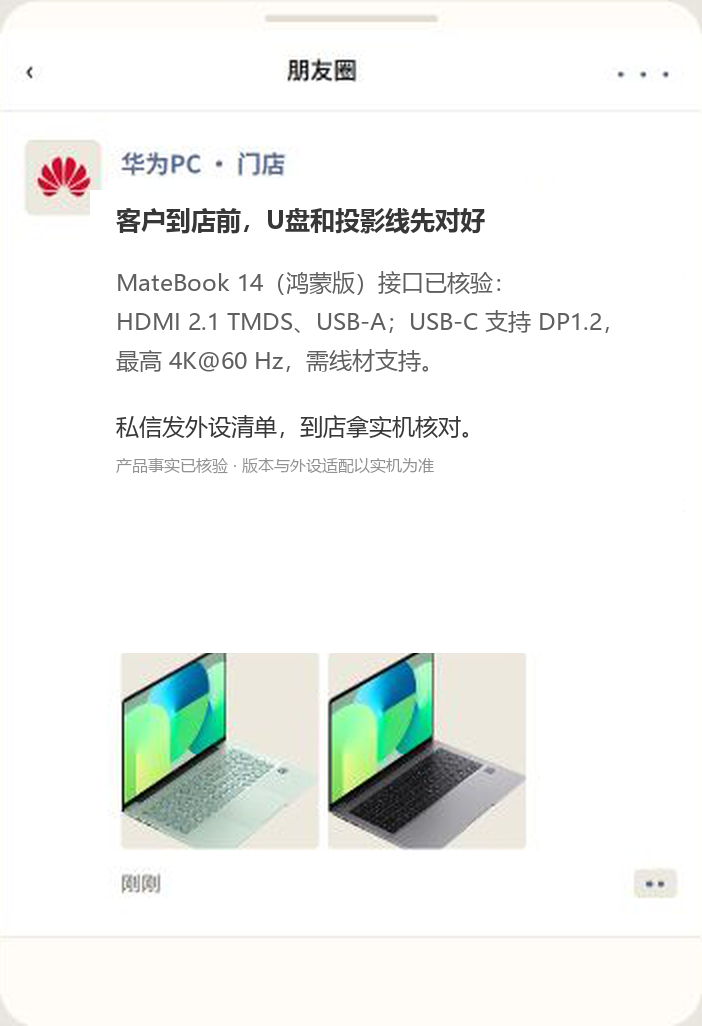
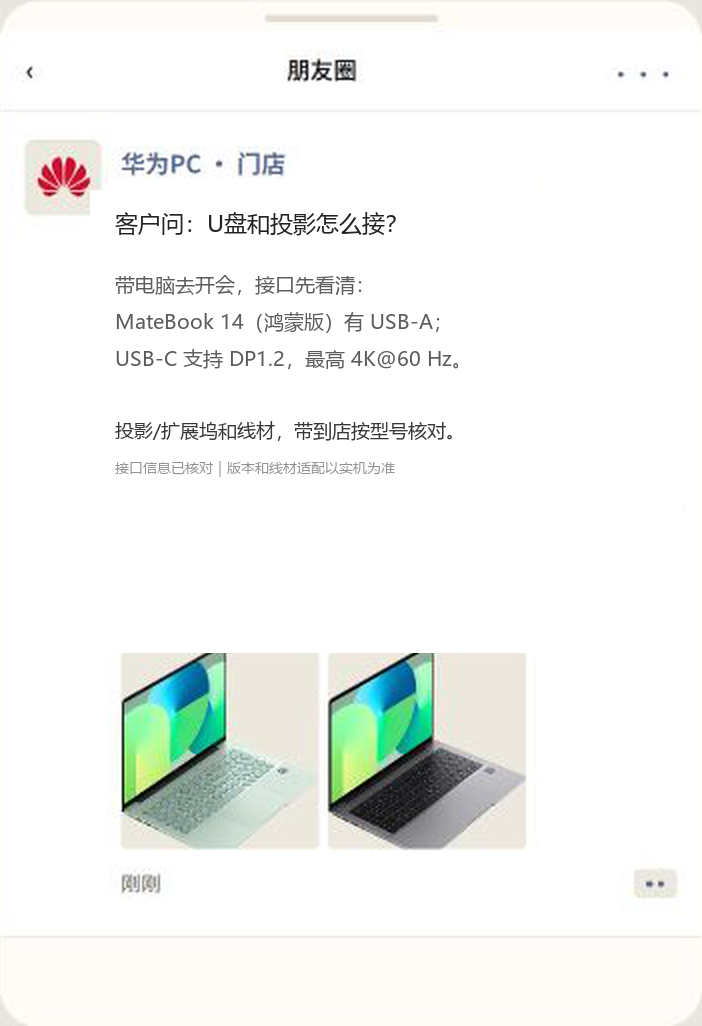
Polish verified moments showcase copy

Changed region(s): [[0.1496, 0.1871, 0.8077, 0.3743], [0.1496, 0.4055, 0.6581, 0.4678], [0.8376, 0.3119, 0.8675, 0.3431]]

diff --git a/src/mvp/web/showcase-functions.html b/src/mvp/web/showcase-functions.html
@@ -7,7 +7,7 @@
   <meta name="description" content="华章有据决赛线下展示稿：十二个业务功能、可解释生产线与可交付闭环。">
   <link rel="icon" type="image/svg+xml" href="/static/brand/app-icon.svg">
   <link rel="stylesheet" href="/static/fonts.css?v=1.2.0">
-  <link rel="stylesheet" href="/static/showcase-deck.css?v=1.0.5">
+  <link rel="stylesheet" href="/static/showcase-deck.css?v=1.0.6">
 </head>
 <body class="deck-page">
   <header class="deck-header">
@@ -24,23 +24,23 @@
     </section>
     <section class="deck-slide" data-label="PROBLEM" data-title="门店不是不会写，是没有时间把内容做对"><div class="slide-index"><span>02</span><i></i><small>18</small></div><div class="problem-layout"><div class="slide-copy"><p class="eyebrow">问题 / 01</p><h2>门店不是不会写，<br><em>是没有时间把内容做对。</em></h2><p>店长面对的是一串同时发生的任务：今天推谁、讲哪个场景、产品参数能不能写、四个平台该怎么改。只给一个空白输入框，最后得到的通常是“像营销”的模板。</p><div class="pain-list"><div><b>01</b><span>人群和场景没有被说清楚</span></div><div><b>02</b><span>同一段话被复制到四个平台</span></div><div><b>03</b><span>产品事实和图片出处没人负责</span></div></div></div><div class="problem-visual"><div class="before-box"><span>原来的工作</span><strong>搜索资料 → 凭经验写 → 自己检查 → 手动改四遍</strong><small>时间被耗在重复劳动，风险却留在最后。</small></div><div class="arrow-mark">→</div><div class="after-box"><span>华章有据</span><strong>经营参数 → Agent 接力 → 事实核验 → 平台交付</strong><small>让每一步都留下可以解释的证据。</small></div></div></div><p class="speaker-note"><span>现场说</span>“所以我们没有从‘模型能写多长’开始，而是从店长每天真正要完成的工作开始。”</p></section>
     <section class="deck-slide slide-platforms function-map-slide" data-label="MAP" data-title="十二个功能，围绕一条门店经营链"><div class="slide-index"><span>03</span><i></i><small>18</small></div><div class="slide-topline"><div><p class="eyebrow">功能地图 / 01</p><h2>十二个功能，<br><em>围绕一条门店经营链。</em></h2></div><p>从真实输入开始，到内容交付和门店复盘结束。下面每一页只讲一个能力：它替业务做什么，留下什么结果。</p></div><div class="function-map-overview"><div class="function-map-band"><div class="function-map-band-intro"><span>01</span><b>真实输入</b><small>让系统知道这家店、这群人、这个场景到底要完成什么动作。</small></div><div class="function-map-cards"><button class="function-map-card" data-go="4"><span>01</span><img src="/static/showcase-assets/brief-filled.png?v=20261025-0730" alt="结构化创作简报"><strong>结构化创作简报</strong><small>从一句需求到经营参数</small></button><button class="function-map-card" data-go="5"><span>02</span><img src="/static/showcase-assets/ask-1.png?v=20261025-0730" alt="智能追问"><strong>智能追问</strong><small>只补真正影响结果的缺口</small></button><button class="function-map-card" data-go="6"><span>03</span><img src="/static/showcase-assets/weight-mix.png" alt="需求意图与 Weight Mix"><strong>需求意图与 Weight Mix</strong><small>规则与自然语言共同决策</small></button><button class="function-map-card" data-go="7"><span>04</span><img src="/static/showcase-assets/scene-analysis.png" alt="产品与场景上下文"><strong>产品 / 场景上下文</strong><small>知识库、机型和历史共同进场</small></button></div></div><div class="function-map-band"><div class="function-map-band-intro"><span>02</span><b>可解释生产线</b><small>让模型、规则和人工各自负责自己擅长的部分。</small></div><div class="function-map-cards"><button class="function-map-card" data-go="8"><span>05</span><img src="/static/showcase-assets/work.png" alt="Agent 实时编排"><strong>Agent 实时编排</strong><small>阶段状态、耗时、资料路径可见</small></button><button class="function-map-card" data-go="9"><span>06</span><img src="/static/gallery/result.jpg" alt="视觉海报与外观保真"><strong>视觉海报与外观保真</strong><small>场景可以创作，产品要保持真实</small></button><button class="function-map-card" data-go="10"><span>07</span><img src="/static/showcase-assets/evidence.png" alt="事实核验与 Fact ID"><strong>事实核验与 Fact ID</strong><small>主张、图片、来源一一回链</small></button><button class="function-map-card is-featured" data-go="11"><span>08</span><img src="/static/showcase-assets/evidence-judge.png" alt="双轨审核与风险分流"><strong>双轨审核与风险分流</strong><small>自动修订与人工裁定各走各的路径</small></button></div></div><div class="function-map-band"><div class="function-map-band-intro"><span>03</span><b>可交付闭环</b><small>把内容交到平台和门店，继续沉淀下一次工作的上下文。</small></div><div class="function-map-cards"><button class="function-map-card" data-go="12"><span>09</span><img src="/static/gallery/showcase-moments-preview.png?v=20261025-0800" alt="多平台原生预览"><strong>多平台原生预览</strong><small>小红书、公众号、朋友圈、海报分别组织</small></button><button class="function-map-card" data-go="13"><span>10</span><img src="/static/showcase-assets/export-offline.png" alt="快捷打磨与离线导出"><strong>快捷打磨与离线导出</strong><small>定向修订、复制正文、导出 HTML</small></button><button class="function-map-card" data-go="14"><span>11</span><img src="/static/showcase-assets/store-final.png" alt="我的门店与私域触点"><strong>我的门店与私域触点</strong><small>企微、社群、到店邀约形成经营看板</small></button><button class="function-map-card" data-go="15"><span>12</span><img src="/static/showcase-assets/judge-final.png" alt="历史稿件与复盘"><strong>历史稿件与复盘</strong><small>跨稿避重、审核状态、后续动作可追踪</small></button></div></div></div><p class="speaker-note"><span>现场说</span>“这一段开始，我不再按平台讲案例，而是按业务能力讲：店长每遇到一个问题，系统就有一个明确的功能接住它。”</p></section>
-    <section class="deck-slide case-slide feature-slide" data-label="INPUT / 01" data-title="结构化创作简报：把一句需求变成经营参数"><div class="slide-index"><span>04</span><i></i><small>18</small></div><div class="case-layout"><div class="case-copy"><p class="eyebrow">功能 / 01 · 真实输入</p><h2>别让店长写提示词，<br><em>让他把经营要求填完整。</em></h2><p>业务场景：店长要为“经常出差的职场新人”准备一条到店试机内容。系统把人群、场景、平台、产品、目标和私域触点收成一张可修改、可复用的创作简报。</p><div class="case-points"><div><b>业务问题</b><span>只说“帮我写一篇”，系统不知道写给谁、发到哪、希望用户下一步做什么。</span></div><div><b>系统动作</b><span>把自然语言和结构化选项合并成经营参数，后续每个 Agent 都读取同一份 brief。</span></div><div><b>业务结果</b><span>店长从“试着问模型”变成“布置一次任务”，换人也能复用同一套输入。</span></div></div><div class="case-tags"><span>人群</span><span>场景</span><span>平台</span><span>到店目标</span></div></div><figure class="case-media"><img src="/static/showcase-assets/brief-filled.png?v=20261025-0730" alt="结构化创作简报界面"><figcaption><b>业务证据</b> 一张简报把“写什么”变成“为谁、在什么场景、要发生什么动作”。</figcaption></figure></div><p class="speaker-note"><span>现场说</span>“对门店来说，这不是多填几项表单，而是把原来藏在店长脑子里的经营判断变成团队可以复用的任务。”</p></section>
-    <section class="deck-slide case-slide feature-slide" data-label="INPUT / 02" data-title="智能追问：只补真正影响结果的缺口"><div class="slide-index"><span>05</span><i></i><small>18</small></div><div class="case-layout case-layout-reverse"><div class="case-copy"><p class="eyebrow">功能 / 02 · 真实输入</p><h2>需求不完整时，<br><em>先问一个最值得确认的问题。</em></h2><p>业务场景：销售只输入“给老客推一台轻薄本”，但没有说明是换机、送礼还是出差办公。系统识别出真正会改变内容方向的缺口，只追问这一点。</p><div class="case-points"><div><b>业务问题</b><span>空白输入框会逼店长反复试错，问题问得太多又会让一线员工放弃。</span></div><div><b>系统动作</b><span>按结果影响度排序追问，支持一键选择或补充，不把低价值细节提前拦住。</span></div><div><b>业务结果</b><span>减少返工和来回沟通，让“不会描述需求”的员工也能把任务启动起来。</span></div></div><div class="case-tags"><span>缺口识别</span><span>最小追问</span><span>少返工</span></div></div><figure class="case-media"><img src="/static/showcase-assets/ask-1.png?v=20261025-0730" alt="智能追问界面"><figcaption><b>业务证据</b> 追问只围绕会改变结果的选择，让一线输入保持轻量。</figcaption></figure></div><p class="speaker-note"><span>现场说</span>“系统不是把复杂性推给店长，而是把复杂性留在系统里，只把一个真正影响结果的问题问出来。”</p></section>
-    <section class="deck-slide case-slide feature-slide" data-label="INPUT / 03" data-title="需求意图与 Weight Mix：把多个目标排出优先级"><div class="slide-index"><span>06</span><i></i><small>18</small></div><div class="case-layout"><div class="case-copy"><p class="eyebrow">功能 / 03 · 真实输入</p><h2>门店目标不止一个，<br><em>先把优先级说清楚。</em></h2><p>业务场景：同一条内容既想让用户感到轻薄，又想强调接口和到店试机。系统把稳定的场景规则与店长的自然语言诉求混合，形成可回看的权重。</p><div class="case-points"><div><b>业务问题</b><span>“都要讲”最后往往变成什么都讲不清，模型也无法判断哪一个卖点应该占主位。</span></div><div><b>系统动作</b><span>用 Weight Mix 把平台规则、场景任务和临时诉求组合成排序依据，保留每个权重来源。</span></div><div><b>业务结果</b><span>正文、标题和画面有同一条主线，店长能解释为什么这次先讲轻薄、下一次再讲接口。</span></div></div><div class="case-tags"><span>目标排序</span><span>规则 + 语义</span><span>可解释决策</span></div></div><figure class="case-media"><img src="/static/showcase-assets/weight-mix.png" alt="需求意图与 Weight Mix 界面"><figcaption><b>业务证据</b> 结构化规则提供骨架，自然语言补足真实诉求，最后形成可回看的优先级。</figcaption></figure></div><p class="speaker-note"><span>现场说</span>“这一页要讲的是经营取舍：系统不是替店长决定卖点，而是把‘为什么先讲这个’留下来。”</p></section>
-    <section class="deck-slide case-slide feature-slide" data-label="INPUT / 04" data-title="产品与场景上下文：让门店资料真正进入创作"><div class="slide-index"><span>07</span><i></i><small>18</small></div><div class="case-layout case-layout-reverse"><div class="case-copy"><p class="eyebrow">功能 / 04 · 真实输入</p><h2>写之前先把资料放进来，<br><em>让内容像这家店，而不是像模板。</em></h2><p>业务场景：同一台 MateBook 在不同门店面对不同客群。系统把知识库、机型资料、登记图片和历史稿件放进当前任务，未确认内容保持待确认。</p><div class="case-points"><div><b>业务问题</b><span>没有门店上下文，内容只能泛泛讲参数，也无法知道哪些话已经写过。</span></div><div><b>系统动作</b><span>按产品、场景和门店历史组织资料，区分已确认、待确认和仅供参考的内容。</span></div><div><b>业务结果</b><span>同一套系统能写出“这家店现在要卖什么”，也能在下次任务里复用已有上下文。</span></div></div><div class="case-tags"><span>知识库</span><span>门店资料</span><span>历史沉淀</span></div></div><figure class="case-media"><img src="/static/showcase-assets/scene-analysis.png" alt="产品与场景上下文界面"><figcaption><b>业务证据</b> 产品事实、场景图片和历史稿件共同进入当前任务，避免凭空补全。</figcaption></figure></div><p class="speaker-note"><span>现场说</span>“对门店来说，真正有价值的不是一篇通用好文，而是一篇知道这家店今天要卖什么的内容。”</p></section>
-    <section class="deck-slide case-slide feature-slide" data-label="PIPELINE / 05" data-title="Agent 实时编排：让一条内容生产线可见"><div class="slide-index"><span>08</span><i></i><small>18</small></div><div class="case-layout"><div class="case-copy"><p class="eyebrow">功能 / 05 · 可解释生产线</p><h2>不是一个模型写到底，<br><em>而是一条看得见的生产线。</em></h2><p>业务场景：门店要同时准备小红书、朋友圈和海报。理解需求、备料、选角度、写作、规则检查、独立评审和定向修订分别留下状态和耗时。</p><div class="case-points"><div><b>业务问题</b><span>生成失败时没人知道卡在哪；等待时间、资料路径和修改原因也无法解释。</span></div><div><b>系统动作</b><span>把任务拆成有边界的 Agent 阶段，每一段都展示输入、输出、状态和可回查记录。</span></div><div><b>业务结果</b><span>店长知道结果何时可用，研发知道问题在哪一段，评审能看到系统怎样从需求走到成稿。</span></div></div><div class="case-tags"><span>阶段状态</span><span>耗时可见</span><span>资料路径</span></div></div><figure class="case-media"><img src="/static/showcase-assets/work.png" alt="Agent 实时编排界面"><figcaption><b>业务证据</b> 每个阶段都有自己的职责，过程可以解释，失败可以定位。</figcaption></figure></div><p class="speaker-note"><span>现场说</span>“这项功能解决的是组织问题：不是让一个模型更会说，而是让一条内容生产线知道每一步该由谁负责。”</p></section>
-    <section class="deck-slide case-slide feature-slide" data-label="PIPELINE / 06" data-title="视觉海报与产品外观保真：创意和事实同时成立"><div class="slide-index"><span>09</span><i></i><small>18</small></div><div class="case-layout case-layout-reverse"><div class="case-copy"><p class="eyebrow">功能 / 06 · 可解释生产线</p><h2>画面可以有想象，<br><em>产品不能被重新画错。</em></h2><p>业务场景：围绕职场新人通勤和出差，系统生成杂志、微缩场景、生活方式等不同海报方向，同时锁定真实机身、型号与已确认卖点。</p><div class="case-points"><div><b>业务问题</b><span>只生成一张图没有选择空间，完全放开创作又容易把产品外观和文字做错。</span></div><div><b>系统动作</b><span>先扩展多种视觉方向，再把产品登记图、型号和事实约束带入候选，最后由人挑选。</span></div><div><b>业务结果</b><span>门店可以比较“哪种风格更适合这群人”，同时保留发布前的人工验收。</span></div></div><div class="case-tags"><span>多风格候选</span><span>外观保真</span><span>人工选择</span></div></div><figure class="case-media"><img src="/static/gallery/result.jpg" alt="视觉海报与产品外观保真"><figcaption><b>业务证据</b> 同一条到店理由生成多种表达，创意扩展和产品事实各守一条边界。</figcaption></figure></div><p class="speaker-note"><span>现场说</span>“海报生成不是让模型押一次方向，而是把选择空间摆出来，再把产品事实守住。”</p></section>
-    <section class="deck-slide case-slide feature-slide" data-label="PIPELINE / 07" data-title="事实核验与 Fact ID：每条主张都能回到来源"><div class="slide-index"><span>10</span><i></i><small>18</small></div><div class="case-layout"><div class="case-copy"><p class="eyebrow">功能 / 07 · 可解释生产线</p><h2>发布前不靠感觉，<br><em>把每条主张拉回原文。</em></h2><p>业务场景：内容里出现重量、屏幕比例、接口和适用条件。系统把主张、配图、型号和知识库来源逐项关联，给审核者一张可以快速核对的清单。</p><div class="case-points"><div><b>业务问题</b><span>营销文案最怕“看起来对”，但发布时没人能快速确认数字和图片到底来自哪里。</span></div><div><b>系统动作</b><span>抽取正文主张并生成 Fact ID，关联证据、图片引用和适用边界，缺证据的内容进入待确认。</span></div><div><b>业务结果</b><span>审核从通读整篇变成逐项确认，店长能知道哪句话可以直接发、哪句话必须先问清。</span></div></div><div class="case-tags"><span>主张清单</span><span>Fact ID</span><span>来源回链</span></div></div><figure class="case-media"><img src="/static/showcase-assets/evidence.png" alt="事实核验与 Fact ID 界面"><figcaption><b>业务证据</b> 数字、型号、接口和图片分别有来源，审核动作可追溯。</figcaption></figure></div><p class="speaker-note"><span>现场说</span>“有据不是让人相信模型，而是让审核者在最短时间内知道这句话为什么可以发。”</p></section>
-    <section class="deck-slide case-slide feature-slide" data-label="PIPELINE / 08" data-title="双轨审核与风险分流：把能自动修的和必须问人的分开"><div class="slide-index"><span>11</span><i></i><small>18</small></div><div class="case-layout case-layout-reverse"><div class="case-copy"><p class="eyebrow">功能 / 08 · 可解释生产线</p><h2>审核不是一刀切，<br><em>不同风险走不同路径。</em></h2><p>业务场景：一篇稿件同时出现格式问题、事实冲突和未确认兼容性。系统把可自动修订的问题回流，把重要未决保留给人工裁定。</p><div class="case-points"><div><b>业务问题</b><span>把所有问题都交给人会拖慢发布，把所有问题都交给模型又会放大风险。</span></div><div><b>系统动作</b><span>确定性规则、独立评审和人工确认分轨处理，重复意见合并成一个清晰的裁定项。</span></div><div><b>业务结果</b><span>日常稿件更快通过，关键边界不被自动“润色”掉，门店知道自己还需要决定什么。</span></div></div><div class="case-tags"><span>自动修订</span><span>风险分流</span><span>人工裁定</span></div></div><figure class="case-media"><img src="/static/showcase-assets/evidence-judge.png" alt="双轨审核与风险分流界面"><figcaption><b>业务证据</b> 同一条问题只保留一个处理入口，自动能做的先做，重要未决交还给人。</figcaption></figure></div><p class="speaker-note"><span>现场说</span>“我们不追求把所有问题都自动处理，而是让人把时间用在真正需要判断的地方。”</p></section>
-    <section class="deck-slide case-slide feature-slide" data-label="DELIVERY / 09" data-title="多平台原生预览：同一份事实，按渠道重新组织"><div class="slide-index"><span>12</span><i></i><small>18</small></div><div class="case-layout"><div class="case-copy"><p class="eyebrow">功能 / 09 · 可交付闭环</p><h2>交付的不是一段字，<br><em>而是四个平台各自能用的内容。</em></h2><p>业务场景：同一台产品要同时服务小红书种草、公众号解释、朋友圈答疑和门店海报。系统保留同一份事实，按不同渠道的阅读节奏重组标题、正文、图片和行动。</p><div class="case-points"><div><b>业务问题</b><span>复制同一段话到四个平台，既没有平台网感，也没有清晰的下一步动作。</span></div><div><b>系统动作</b><span>按平台规则分别生成原生结构，支持电脑端与手机端预览，保留平台边界和内容长度。</span></div><div><b>业务结果</b><span>店长拿到的是可以直接检查、复制和发布的内容包，而不是还要自己改四遍的草稿。</span></div></div><div class="case-tags"><span>小红书</span><span>公众号</span><span>朋友圈</span><span>门店海报</span></div></div><figure class="case-media"><img src="/static/gallery/showcase-moments-preview.png?v=20261025-0800" alt="朋友圈手机预览：接口核验与到店邀约"><figcaption><b>工作台生成结果</b> 朋友圈短卡片：产品接口事实已核验，版本与外设适配保留到店实机确认。</figcaption></figure></div><p class="speaker-note"><span>现场说</span>“平台适配不是换标题，而是换用户动作：参与、理解、转发和到店，各自都有自己的内容结构。”</p></section>
-    <section class="deck-slide case-slide feature-slide" data-label="DELIVERY / 10" data-title="快捷打磨与离线导出：改一个问题，不必推倒重来"><div class="slide-index"><span>13</span><i></i><small>18</small></div><div class="case-layout case-layout-reverse"><div class="case-copy"><p class="eyebrow">功能 / 10 · 可交付闭环</p><h2>修改要有指向，<br><em>不要每次都从头生成。</em></h2><p>业务场景：店长只想把标题换得更口语，或者把一条未经确认的接口描述删掉。系统支持对具体问题定向打磨，并将最终结果复制或导出离线 HTML。</p><div class="case-points"><div><b>业务问题</b><span>每次小改都重新生成，容易把已经确认的事实和版式一起改坏。</span></div><div><b>系统动作</b><span>把评审意见映射到局部修订，保留修改前后记录，再提供正文复制和离线交付。</span></div><div><b>业务结果</b><span>店长可以快速完成最后一公里的人工微调，交付给同事或门店时不依赖在线环境。</span></div></div><div class="case-tags"><span>定向修订</span><span>修改留痕</span><span>离线 HTML</span></div></div><figure class="case-media"><img src="/static/showcase-assets/export-offline.png" alt="快捷打磨与离线导出界面"><figcaption><b>业务证据</b> 只修当前问题，保留已确认结果，最终可以复制或带走。</figcaption></figure></div><p class="speaker-note"><span>现场说</span>“真正适合门店的系统，最后一定允许人把一句话改成自己愿意发的样子。”</p></section>
-    <section class="deck-slide case-slide feature-slide" data-label="DELIVERY / 11" data-title="我的门店与私域触点：让发布之后还有下一步"><div class="slide-index"><span>14</span><i></i><small>18</small></div><div class="case-layout"><div class="case-copy"><p class="eyebrow">功能 / 11 · 可交付闭环</p><h2>内容发布之后，<br><em>回到门店继续经营。</em></h2><p>业务场景：一条朋友圈发出后，可能有人加企微、进社群、预约到店，也可能只留下一个待跟进的选购问题。系统把这些私域触点接回门店看板。</p><div class="case-points"><div><b>业务问题</b><span>内容发出就结束，谁看过、谁要跟进、哪条内容带来动作都散落在聊天记录里。</span></div><div><b>系统动作</b><span>把企微、朋友圈、社群和到店邀约整理成可继续处理的触点，关联内容和任务。</span></div><div><b>业务结果</b><span>门店不只得到一篇稿件，还能知道下一步联系谁、补什么资料、复用哪条经验。</span></div></div><div class="case-tags"><span>企微触点</span><span>社群跟进</span><span>到店邀约</span></div></div><figure class="case-media"><img src="/static/showcase-assets/store-final.png" alt="我的门店与私域触点看板"><figcaption><b>业务证据</b> 内容、客户触点和到店动作进入同一个门店经营视图。</figcaption></figure></div><p class="speaker-note"><span>现场说</span>“生态营销的终点不是发布按钮，而是店员知道下一步该跟进谁。”</p></section>
-    <section class="deck-slide case-slide feature-slide" data-label="DELIVERY / 12" data-title="历史稿件与复盘：让每次生成都成为下一次的上下文"><div class="slide-index"><span>15</span><i></i><small>18</small></div><div class="case-layout case-layout-reverse"><div class="case-copy"><p class="eyebrow">功能 / 12 · 可交付闭环</p><h2>每次生成都留下来，<br><em>下一次就不用从零开始。</em></h2><p>业务场景：门店下周还要为同一机型做另一条内容。系统保留历史稿件、审核状态和后续动作，用于字面避重、经验复用和经营复盘。</p><div class="case-points"><div><b>业务问题</b><span>好的内容和审核经验只存在某个人的聊天框里，换人或换场景就重新摸索。</span></div><div><b>系统动作</b><span>按门店、产品、平台和时间沉淀稿件与状态，支持跨稿比较、避重和回看修改原因。</span></div><div><b>业务结果</b><span>内容资产会越用越厚，店长能知道哪些表达已经试过、哪些问题反复出现、下次从哪里开始。</span></div></div><div class="case-tags"><span>历史沉淀</span><span>跨稿避重</span><span>经营复盘</span></div></div><figure class="case-media"><img src="/static/showcase-assets/judge-final.png" alt="历史稿件与复盘界面"><figcaption><b>业务证据</b> 稿件、审核状态和后续动作持续沉淀，成为下一次任务的上下文。</figcaption></figure></div><p class="speaker-note"><span>现场说</span>“做到这里，系统就不只是生成器，而是门店内容经验的记忆和复盘入口。”</p></section>
+    <section class="deck-slide case-slide feature-slide" data-label="INPUT / 01" data-title="结构化创作简报：把一句需求变成经营参数"><div class="slide-index"><span>04</span><i></i><small>18</small></div><div class="case-layout"><div class="case-copy"><p class="eyebrow">功能 / 01 · 真实输入</p><h2>结构化创作简报<br><em>把一句需求变成可执行的经营参数。</em></h2><p>把人群、场景、平台和到店目标收成一张可复用的创作简报。</p><div class="case-points"><div><b>业务问题</b><span>只说“帮我写一篇”，系统不知道写给谁、发到哪、希望用户下一步做什么。</span></div><div><b>系统动作</b><span>把自然语言和结构化选项合并成经营参数，后续每个 Agent 都读取同一份 brief。</span></div><div><b>业务结果</b><span>店长从“试着问模型”变成“布置一次任务”，换人也能复用同一套输入。</span></div></div><div class="case-tags"><span>人群</span><span>场景</span><span>平台</span><span>到店目标</span></div></div><figure class="case-media"><img src="/static/showcase-assets/brief-filled.png?v=20261025-0730" alt="结构化创作简报界面"><figcaption><b>业务证据</b> 一张简报把“写什么”变成“为谁、在什么场景、要发生什么动作”。</figcaption></figure></div><p class="speaker-note"><span>现场说</span>“对门店来说，这不是多填几项表单，而是把原来藏在店长脑子里的经营判断变成团队可以复用的任务。”</p></section>
+    <section class="deck-slide case-slide feature-slide" data-label="INPUT / 02" data-title="智能追问：只补真正影响结果的缺口"><div class="slide-index"><span>05</span><i></i><small>18</small></div><div class="case-layout case-layout-reverse"><div class="case-copy"><p class="eyebrow">功能 / 02 · 真实输入</p><h2>智能追问<br><em>只补真正影响结果的缺口。</em></h2><p>需求不完整时，只补一个真正会改变结果的关键选择。</p><div class="case-points"><div><b>业务问题</b><span>空白输入框会逼店长反复试错，问题问得太多又会让一线员工放弃。</span></div><div><b>系统动作</b><span>按结果影响度排序追问，支持一键选择或补充，不把低价值细节提前拦住。</span></div><div><b>业务结果</b><span>减少返工和来回沟通，让“不会描述需求”的员工也能把任务启动起来。</span></div></div><div class="case-tags"><span>缺口识别</span><span>最小追问</span><span>少返工</span></div></div><figure class="case-media"><img src="/static/showcase-assets/ask-1.png?v=20261025-0730" alt="智能追问界面"><figcaption><b>业务证据</b> 追问只围绕会改变结果的选择，让一线输入保持轻量。</figcaption></figure></div><p class="speaker-note"><span>现场说</span>“系统不是把复杂性推给店长，而是把复杂性留在系统里，只把一个真正影响结果的问题问出来。”</p></section>
+    <section class="deck-slide case-slide feature-slide" data-label="INPUT / 03" data-title="需求意图与 Weight Mix：把多个目标排出优先级"><div class="slide-index"><span>06</span><i></i><small>18</small></div><div class="case-layout"><div class="case-copy"><p class="eyebrow">功能 / 03 · 真实输入</p><h2>需求意图与 Weight Mix<br><em>把多个经营目标排出先后。</em></h2><p>把平台规则、场景任务和临时诉求合成可回看的优先级。</p><div class="case-points"><div><b>业务问题</b><span>“都要讲”最后往往变成什么都讲不清，模型也无法判断哪一个卖点应该占主位。</span></div><div><b>系统动作</b><span>用 Weight Mix 把平台规则、场景任务和临时诉求组合成排序依据，保留每个权重来源。</span></div><div><b>业务结果</b><span>正文、标题和画面有同一条主线，店长能解释为什么这次先讲轻薄、下一次再讲接口。</span></div></div><div class="case-tags"><span>目标排序</span><span>规则 + 语义</span><span>可解释决策</span></div></div><figure class="case-media"><img src="/static/showcase-assets/weight-mix.png" alt="需求意图与 Weight Mix 界面"><figcaption><b>业务证据</b> 结构化规则提供骨架，自然语言补足真实诉求，最后形成可回看的优先级。</figcaption></figure></div><p class="speaker-note"><span>现场说</span>“这一页要讲的是经营取舍：系统不是替店长决定卖点，而是把‘为什么先讲这个’留下来。”</p></section>
+    <section class="deck-slide case-slide feature-slide" data-label="INPUT / 04" data-title="产品与场景上下文：让门店资料真正进入创作"><div class="slide-index"><span>07</span><i></i><small>18</small></div><div class="case-layout case-layout-reverse"><div class="case-copy"><p class="eyebrow">功能 / 04 · 真实输入</p><h2>产品与场景上下文<br><em>让门店资料真正进入当前任务。</em></h2><p>让产品资料、场景图片和门店历史共同进入当前任务。</p><div class="case-points"><div><b>业务问题</b><span>没有门店上下文，内容只能泛泛讲参数，也无法知道哪些话已经写过。</span></div><div><b>系统动作</b><span>按产品、场景和门店历史组织资料，区分已确认、待确认和仅供参考的内容。</span></div><div><b>业务结果</b><span>同一套系统能写出“这家店现在要卖什么”，也能在下次任务里复用已有上下文。</span></div></div><div class="case-tags"><span>知识库</span><span>门店资料</span><span>历史沉淀</span></div></div><figure class="case-media"><img src="/static/showcase-assets/scene-analysis.png" alt="产品与场景上下文界面"><figcaption><b>业务证据</b> 产品事实、场景图片和历史稿件共同进入当前任务，避免凭空补全。</figcaption></figure></div><p class="speaker-note"><span>现场说</span>“对门店来说，真正有价值的不是一篇通用好文，而是一篇知道这家店今天要卖什么的内容。”</p></section>
+    <section class="deck-slide case-slide feature-slide" data-label="PIPELINE / 05" data-title="Agent 实时编排：让一条内容生产线可见"><div class="slide-index"><span>08</span><i></i><small>18</small></div><div class="case-layout"><div class="case-copy"><p class="eyebrow">功能 / 05 · 可解释生产线</p><h2>Agent 实时编排<br><em>让一条内容生产线可见、可解释。</em></h2><p>把理解、备料、创作、核验和修订拆成可追踪的 Agent 阶段。</p><div class="case-points"><div><b>业务问题</b><span>生成失败时没人知道卡在哪；等待时间、资料路径和修改原因也无法解释。</span></div><div><b>系统动作</b><span>把任务拆成有边界的 Agent 阶段，每一段都展示输入、输出、状态和可回查记录。</span></div><div><b>业务结果</b><span>店长知道结果何时可用，研发知道问题在哪一段，评审能看到系统怎样从需求走到成稿。</span></div></div><div class="case-tags"><span>阶段状态</span><span>耗时可见</span><span>资料路径</span></div></div><figure class="case-media"><img src="/static/showcase-assets/work.png" alt="Agent 实时编排界面"><figcaption><b>业务证据</b> 每个阶段都有自己的职责，过程可以解释，失败可以定位。</figcaption></figure></div><p class="speaker-note"><span>现场说</span>“这项功能解决的是组织问题：不是让一个模型更会说，而是让一条内容生产线知道每一步该由谁负责。”</p></section>
+    <section class="deck-slide case-slide feature-slide" data-label="PIPELINE / 06" data-title="视觉海报与产品外观保真：创意和事实同时成立"><div class="slide-index"><span>09</span><i></i><small>18</small></div><div class="case-layout case-layout-reverse"><div class="case-copy"><p class="eyebrow">功能 / 06 · 可解释生产线</p><h2>视觉海报与产品外观保真<br><em>场景可以有创意，产品必须保持真实。</em></h2><p>先扩展视觉表达，再用真实产品资料守住外观和型号。</p><div class="case-points"><div><b>业务问题</b><span>只生成一张图没有选择空间，完全放开创作又容易把产品外观和文字做错。</span></div><div><b>系统动作</b><span>先扩展多种视觉方向，再把产品登记图、型号和事实约束带入候选，最后由人挑选。</span></div><div><b>业务结果</b><span>门店可以比较“哪种风格更适合这群人”，同时保留发布前的人工验收。</span></div></div><div class="case-tags"><span>多风格候选</span><span>外观保真</span><span>人工选择</span></div></div><figure class="case-media"><img src="/static/gallery/result.jpg" alt="视觉海报与产品外观保真"><figcaption><b>业务证据</b> 同一条到店理由生成多种表达，创意扩展和产品事实各守一条边界。</figcaption></figure></div><p class="speaker-note"><span>现场说</span>“海报生成不是让模型押一次方向，而是把选择空间摆出来，再把产品事实守住。”</p></section>
+    <section class="deck-slide case-slide feature-slide" data-label="PIPELINE / 07" data-title="事实核验与 Fact ID：每条主张都能回到来源"><div class="slide-index"><span>10</span><i></i><small>18</small></div><div class="case-layout"><div class="case-copy"><p class="eyebrow">功能 / 07 · 可解释生产线</p><h2>事实核验与 Fact ID<br><em>让每条主张都能回到来源。</em></h2><p>把正文主张、配图和知识库来源逐项关联，方便发布前核对。</p><div class="case-points"><div><b>业务问题</b><span>营销文案最怕“看起来对”，但发布时没人能快速确认数字和图片到底来自哪里。</span></div><div><b>系统动作</b><span>抽取正文主张并生成 Fact ID，关联证据、图片引用和适用边界，缺证据的内容进入待确认。</span></div><div><b>业务结果</b><span>审核从通读整篇变成逐项确认，店长能知道哪句话可以直接发、哪句话必须先问清。</span></div></div><div class="case-tags"><span>主张清单</span><span>Fact ID</span><span>来源回链</span></div></div><figure class="case-media"><img src="/static/showcase-assets/evidence.png" alt="事实核验与 Fact ID 界面"><figcaption><b>业务证据</b> 数字、型号、接口和图片分别有来源，审核动作可追溯。</figcaption></figure></div><p class="speaker-note"><span>现场说</span>“有据不是让人相信模型，而是让审核者在最短时间内知道这句话为什么可以发。”</p></section>
+    <section class="deck-slide case-slide feature-slide" data-label="PIPELINE / 08" data-title="双轨审核与风险分流：把能自动修的和必须问人的分开"><div class="slide-index"><span>11</span><i></i><small>18</small></div><div class="case-layout case-layout-reverse"><div class="case-copy"><p class="eyebrow">功能 / 08 · 可解释生产线</p><h2>双轨审核与风险分流<br><em>把可自动修的和必须问人的分开处理。</em></h2><p>把可自动修订的问题回流，把重要未决留给人工裁定。</p><div class="case-points"><div><b>业务问题</b><span>把所有问题都交给人会拖慢发布，把所有问题都交给模型又会放大风险。</span></div><div><b>系统动作</b><span>确定性规则、独立评审和人工确认分轨处理，重复意见合并成一个清晰的裁定项。</span></div><div><b>业务结果</b><span>日常稿件更快通过，关键边界不被自动“润色”掉，门店知道自己还需要决定什么。</span></div></div><div class="case-tags"><span>自动修订</span><span>风险分流</span><span>人工裁定</span></div></div><figure class="case-media"><img src="/static/showcase-assets/evidence-judge.png" alt="双轨审核与风险分流界面"><figcaption><b>业务证据</b> 同一条问题只保留一个处理入口，自动能做的先做，重要未决交还给人。</figcaption></figure></div><p class="speaker-note"><span>现场说</span>“我们不追求把所有问题都自动处理，而是让人把时间用在真正需要判断的地方。”</p></section>
+    <section class="deck-slide case-slide feature-slide" data-label="DELIVERY / 09" data-title="多平台原生预览：同一份事实，按渠道重新组织"><div class="slide-index"><span>12</span><i></i><small>18</small></div><div class="case-layout"><div class="case-copy"><p class="eyebrow">功能 / 09 · 可交付闭环</p><h2>多平台原生预览<br><em>同一份事实，按渠道重新组织。</em></h2><p>同一份产品事实，按小红书、公众号、朋友圈和海报分别组织。</p><div class="case-points"><div><b>业务问题</b><span>复制同一段话到四个平台，既没有平台网感，也没有清晰的下一步动作。</span></div><div><b>系统动作</b><span>按平台规则分别生成原生结构，支持电脑端与手机端预览，保留平台边界和内容长度。</span></div><div><b>业务结果</b><span>店长拿到的是可以直接检查、复制和发布的内容包，而不是还要自己改四遍的草稿。</span></div></div><div class="case-tags"><span>小红书</span><span>公众号</span><span>朋友圈</span><span>门店海报</span></div></div><figure class="case-media"><img src="/static/gallery/showcase-moments-preview.png?v=20261025-0900" alt="已核验示范文案：U盘与投影接口答疑"><figcaption><b>已核验示范文案</b> 真实门店答疑口吻：先回答 U 盘与投影接口，再把版本和线材适配留给到店实机确认。</figcaption></figure></div><p class="speaker-note"><span>现场说</span>“平台适配不是换标题，而是换用户动作：参与、理解、转发和到店，各自都有自己的内容结构。”</p></section>
+    <section class="deck-slide case-slide feature-slide" data-label="DELIVERY / 10" data-title="快捷打磨与离线导出：改一个问题，不必推倒重来"><div class="slide-index"><span>13</span><i></i><small>18</small></div><div class="case-layout case-layout-reverse"><div class="case-copy"><p class="eyebrow">功能 / 10 · 可交付闭环</p><h2>快捷打磨与离线导出<br><em>改一个问题，不必推倒重来。</em></h2><p>针对具体问题做局部打磨，并把最终内容带走交付。</p><div class="case-points"><div><b>业务问题</b><span>每次小改都重新生成，容易把已经确认的事实和版式一起改坏。</span></div><div><b>系统动作</b><span>把评审意见映射到局部修订，保留修改前后记录，再提供正文复制和离线交付。</span></div><div><b>业务结果</b><span>店长可以快速完成最后一公里的人工微调，交付给同事或门店时不依赖在线环境。</span></div></div><div class="case-tags"><span>定向修订</span><span>修改留痕</span><span>离线 HTML</span></div></div><figure class="case-media"><img src="/static/showcase-assets/export-offline.png" alt="快捷打磨与离线导出界面"><figcaption><b>业务证据</b> 只修当前问题，保留已确认结果，最终可以复制或带走。</figcaption></figure></div><p class="speaker-note"><span>现场说</span>“真正适合门店的系统，最后一定允许人把一句话改成自己愿意发的样子。”</p></section>
+    <section class="deck-slide case-slide feature-slide" data-label="DELIVERY / 11" data-title="我的门店与私域触点：让发布之后还有下一步"><div class="slide-index"><span>14</span><i></i><small>18</small></div><div class="case-layout"><div class="case-copy"><p class="eyebrow">功能 / 11 · 可交付闭环</p><h2>我的门店与私域触点<br><em>让发布之后还有下一步经营动作。</em></h2><p>把内容发布后的企微、社群和到店动作接回门店看板。</p><div class="case-points"><div><b>业务问题</b><span>内容发出就结束，谁看过、谁要跟进、哪条内容带来动作都散落在聊天记录里。</span></div><div><b>系统动作</b><span>把企微、朋友圈、社群和到店邀约整理成可继续处理的触点，关联内容和任务。</span></div><div><b>业务结果</b><span>门店不只得到一篇稿件，还能知道下一步联系谁、补什么资料、复用哪条经验。</span></div></div><div class="case-tags"><span>企微触点</span><span>社群跟进</span><span>到店邀约</span></div></div><figure class="case-media"><img src="/static/showcase-assets/store-final.png" alt="我的门店与私域触点看板"><figcaption><b>业务证据</b> 内容、客户触点和到店动作进入同一个门店经营视图。</figcaption></figure></div><p class="speaker-note"><span>现场说</span>“生态营销的终点不是发布按钮，而是店员知道下一步该跟进谁。”</p></section>
+    <section class="deck-slide case-slide feature-slide" data-label="DELIVERY / 12" data-title="历史稿件与复盘：让每次生成都成为下一次的上下文"><div class="slide-index"><span>15</span><i></i><small>18</small></div><div class="case-layout case-layout-reverse"><div class="case-copy"><p class="eyebrow">功能 / 12 · 可交付闭环</p><h2>历史稿件与跨稿复盘<br><em>让每次生成都成为下一次的上下文。</em></h2><p>沉淀历史稿件、审核状态和后续动作，支持下一次复用。</p><div class="case-points"><div><b>业务问题</b><span>好的内容和审核经验只存在某个人的聊天框里，换人或换场景就重新摸索。</span></div><div><b>系统动作</b><span>按门店、产品、平台和时间沉淀稿件与状态，支持跨稿比较、避重和回看修改原因。</span></div><div><b>业务结果</b><span>内容资产会越用越厚，店长能知道哪些表达已经试过、哪些问题反复出现、下次从哪里开始。</span></div></div><div class="case-tags"><span>历史沉淀</span><span>跨稿避重</span><span>经营复盘</span></div></div><figure class="case-media"><img src="/static/showcase-assets/judge-final.png" alt="历史稿件与复盘界面"><figcaption><b>业务证据</b> 稿件、审核状态和后续动作持续沉淀，成为下一次任务的上下文。</figcaption></figure></div><p class="speaker-note"><span>现场说</span>“做到这里，系统就不只是生成器，而是门店内容经验的记忆和复盘入口。”</p></section>
     <section class="deck-slide slide-evidence" data-label="EVIDENCE" data-title="把功能价值拆成可以验证的指标"><div class="slide-index"><span>16</span><i></i><small>18</small></div><div class="slide-topline"><div><p class="eyebrow">证据 / 02</p><h2>功能讲完以后，<br><em>再把能验证的指标摆出来。</em></h2></div><p>当前没有真实门店投放转化数据，所以把已验证的过程指标、公开案例数字和待验证效果分开呈现。</p></div><div class="evidence-columns"><article class="evidence-block evidence-local"><span class="evidence-label">本机快速档 · 已验证</span><h3>四个平台的端到端执行时间</h3><div class="metric-grid"><div><b>42.6<span>s</span></b><small>小红书</small></div><div><b>36.0<span>s</span></b><small>公众号</small></div><div><b>31.5<span>s</span></b><small>朋友圈</small></div><div><b>33.0<span>s</span></b><small>海报</small></div></div><p>来自 2026-10-21 快速档真实冒烟测试；只证明流程执行与状态控制，不等于投放效果。</p></article><article class="evidence-block evidence-review"><span class="evidence-label">审核闭环 · 已验证</span><h3>问题不是被藏掉，而是被分流</h3><div class="review-flow"><b>9</b><span>条构造评审意见</span><i>→</i><b>4</b><span>可选建议</span><i>+</i><b>3</b><span>有据撤销</span><i>+</i><b>1</b><span>人工确认</span></div><p>同一根因的 2 条未决合并为 1 项人工确认，约 6.76 秒完成分流；这是构造样例，不代表每篇稿件都只剩一项。</p></article><article class="evidence-block evidence-public"><span class="evidence-label">外部公开案例 · 方法参考</span><h3>行业案例为什么值得借鉴</h3><div class="public-metrics"><div><b>+428%</b><small>多码合一流程完成率<br>新自由公开案例</small></div><div><b>+45%</b><small>全域可触达用户<br>新自由公开案例</small></div><div><b>70%</b><small>导购实现月月开单<br>湖南特音公开案例</small></div></div><p>这些数字属于案例方公开口径，用来说明“动作设计值得验证”，不是华章有据的效果承诺。</p></article></div><div class="evidence-foot"><span>工程保障</span><b>140 项 Python 测试 + 32 项前端测试</b><span>未验证</span><b>真实门店曝光、点击、到店与销售转化</b></div><p class="speaker-note"><span>现场说</span>“我们愿意把没有验证的部分说清楚。先证明流程可靠，再进入门店验证传播效果。”</p></section>
     <section class="deck-slide slide-principles" data-label="PRINCIPLES" data-title="功能最后回到三条业务判断"><div class="slide-index"><span>17</span><i></i><small>18</small></div><div class="slide-topline"><div><p class="eyebrow">收束 / 03</p><h2>功能最后回到三条<br><em>业务判断。</em></h2></div><p>每个功能都服务一件事：让内容进入经营，让技术能够解释，让人保留决定权。</p></div><div class="principle-grid"><article><span>01</span><h3>生态营销</h3><p>同一份产品事实，进入不同人群、渠道和门店触点，发布之后还能继续跟进。</p><b>人群 → 场景 → 平台 → 到店</b></article><article><span>02</span><h3>技术升级</h3><p>从“会写”升级为“会编排、会核验、会回流”，每个阶段都能解释为什么这么做。</p><b>任务 → 证据 → 评审 → 修订</b></article><article><span>03</span><h3>人机交互</h3><p>AI 负责穷举和整理，人负责边界与重要判断；不确定的地方保留，不用一句漂亮话盖过去。</p><b>AI 处理 → 人来裁定</b></article></div><div class="principle-close"><span>ONE SENTENCE</span><b>我们做的不是一个“会写”的工具，<br>而是一条把事实、判断和经营动作接起来的工作链。</b></div><p class="speaker-note"><span>现场说</span>“如果今天只能记住一句话，希望是：每一句，都有据可查；每一次传播，都有下一步。”</p></section>
     <section class="deck-slide slide-close" data-label="CLOSE" data-title="谢谢，欢迎现场验证"><div class="slide-index"><span>18</span><i></i><small>18</small></div><div class="close-layout"><div><p class="eyebrow">谢谢观看</p><h2>现在可以现场验证：<br><em>换一个人群，换一个平台。</em></h2><p>展示稿先让逻辑清楚，真实工作台再让结果接受检验。</p><div class="opening-actions"><a class="deck-button deck-button-red" href="/demo">打开现场演示台 ↗</a><a class="deck-button deck-button-line" href="/">进入真实工作台 ↗</a></div></div><div class="close-mark"><img src="/static/brand/logo-mark.svg" alt="" width="86" height="86"><span>每一句，都有据可查。</span></div></div><p class="speaker-note"><span>现场说</span>“谢谢。接下来如果大家愿意，可以直接给我一个人群和一个平台，我们现场看它怎么做出差异。”</p></section>
   <div class="deck-controls" aria-label="演示控制"><button class="deck-control" id="deck-prev" aria-label="上一页">←</button><div class="deck-dots" role="tablist" aria-label="幻灯片页码"></div><button class="deck-control" id="deck-next" aria-label="下一页">→</button><span class="deck-hint">键盘 ← → 翻页 · Home / End 跳转</span></div>
   <footer class="deck-footer"><span>华章有据 · 决赛展示稿</span><span id="deck-footer-progress">01 / 18</span><span>实证先行 · 边界说清</span></footer>
-  <script src="/static/showcase-deck.js?v=1.0.0"></script>
+  <script src="/static/showcase-deck.js?v=1.0.1"></script>
 </body>
 </html>

diff --git a/src/mvp/web/showcase-functions.js b/src/mvp/web/showcase-functions.js
@@ -11,7 +11,7 @@
     visual: { no: "07", title: "视觉海报与产品外观保真", theme: "技术升级 · 生态营销", image: "/static/gallery/result.jpg", caption: "真实界面：作品与产品视觉交付", summary: "场景化视觉可以有创意，但产品外观、型号和登记图片仍然沿用真实素材，避免重绘导致事实偏差。", talk: "视觉不是为了把页面做得更花，而是把产品放进用户正在经历的场景。创意负责表达，产品外观负责守住事实。", tags: ["生态营销", "视觉核验"], next: "图文作品交付前，所有主张还要回到事实核验层。" },
     evidence: { no: "08", title: "事实核验与 Fact ID", theme: "技术升级 · 人机交互", image: "/static/showcase-assets/evidence.png", caption: "真实界面：事实与配图引用表", summary: "产品事实、适用条件、配图和来源被逐项列出，正文里的主张可以回查到知识库原文。", talk: "有据不是一句口号，而是每条主张都能找到引用。数字、型号、接口、系统和图片分别有对应来源，不确定的兼容性不会被硬写成承诺。", tags: ["技术升级", "人机交互"], next: "如果检查发现风险，系统会把可自动修订和需要人判断的问题分开。" },
     review: { no: "09", title: "双轨审核与风险分流", theme: "技术升级 · 人机交互", image: "/static/showcase-assets/evidence-judge.png", caption: "真实界面：审核结果与待裁定问题", summary: "确定性规则、独立评审和人工裁定各走自己的路径；自动能修的直接回流，重要未决保留给人。", talk: "这一页要强调分工：模型不替人承担最终责任。它可以发现、归类、修订，但对关键未决和误报，最后仍然由人做裁定。", tags: ["技术升级", "人机交互"], next: "完成审核后，内容按平台结构重新组织并交付。" },
-    delivery: { no: "10", title: "多平台原生预览与交付", theme: "生态营销", image: "/static/gallery/showcase-moments-preview.png?v=20261025-0800", caption: "真实生成案例：朋友圈手机预览", summary: "小红书、公众号、朋友圈和门店海报有不同的信息节奏，系统按平台结构组织标题、正文、图片和行动。", talk: "交付的不是同一段话换几个标题，而是同一份产品事实在不同渠道里变成原生内容，最后可以直接复制、预览或导出。", tags: ["生态营销", "平台原生"], next: "内容发布之后，回到门店看板继续沉淀触点和历史。" },
+    delivery: { no: "10", title: "多平台原生预览与交付", theme: "生态营销", image: "/static/gallery/showcase-moments-preview.png?v=20261025-0900", caption: "已核验示范：朋友圈手机预览", summary: "小红书、公众号、朋友圈和门店海报有不同的信息节奏，系统按平台结构组织标题、正文、图片和行动。", talk: "交付的不是同一段话换几个标题，而是同一份产品事实在不同渠道里变成原生内容，最后可以直接复制、预览或导出。", tags: ["生态营销", "平台原生"], next: "内容发布之后，回到门店看板继续沉淀触点和历史。" },
     revision: { no: "11", title: "快捷打磨与离线导出", theme: "技术升级 · 生态营销", image: "/static/showcase-assets/export-offline.png", caption: "真实界面：定向修订与离线导出", summary: "对具体问题做定向打磨，保留可回查的修改记录，并支持复制正文和导出离线 HTML。", talk: "它不是让用户重新生成一遍，而是指着具体问题改一处、复核一处。这样速度和可控性可以同时保留。", tags: ["技术升级", "可交付"], next: "最后看这些内容怎样回到门店的经营动作。" },
     store: { no: "12", title: "我的门店与私域触点", theme: "生态营销 · 人机交互", image: "/static/showcase-assets/store-final.png", caption: "真实界面：门店私域经营看板", summary: "企微、朋友圈、门店社群和到店邀约被整理成可继续跟进的触点，内容不再停在“发布完成”。", talk: "生态营销最后要落到门店：谁刚加了企微、谁预约到店、哪条历史稿件已经审核，都能成为下一次工作的上下文。", tags: ["生态营销", "经营闭环"], next: "这也解释了为什么历史稿件和复盘不是附属页面，而是系统的一部分。" },
     history: { no: "13", title: "历史稿件与跨稿复盘", theme: "生态营销 · 技术升级", image: "/static/showcase-assets/judge-final.png", caption: "真实界面：历史稿件与审核状态", summary: "历史稿件、审核状态和后续动作持续沉淀，用于字面避重、经验复用和门店经营复盘。", talk: "每次生成都不是一次性消费。已经写过什么、哪些问题被修过、哪个触点还在跟进，都会影响下一次任务。", tags: ["生态营销", "技术升级"], next: "至此，功能可以归回生态营销、技术升级和人机交互三条理念线。" }

diff --git a/src/mvp/web/showcase-deck.js b/src/mvp/web/showcase-deck.js
@@ -19,7 +19,10 @@
     slides.forEach((slide, item) => slide.classList.toggle("is-active", item === current));
     dots.querySelectorAll(".deck-dot").forEach((dot, item) => { const active = item === current; dot.classList.toggle("is-active", active); dot.setAttribute("aria-selected", String(active)); });
     const active = slides[current];
-    if (active.matches(".function-map-slide, .case-slide")) active.scrollTop = 0;
+    if (active.matches(".function-map-slide, .case-slide")) {
+      active.scrollTop = 0;
+      if (window.matchMedia("(max-width: 1080px)").matches) active.scrollIntoView({ block: "start", behavior: "auto" });
+    }
     label.textContent = `${active.dataset.label} / ${String(current + 1).padStart(2, "0")}`; footer.textContent = `${String(current + 1).padStart(2, "0")} / ${String(slides.length).padStart(2, "0")}`;
     if (updateHash) history.replaceState(null, "", `#slide=${current + 1}`);
   }

diff --git a/src/mvp/web/showcase-deck.css b/src/mvp/web/showcase-deck.css
@@ -108,6 +108,14 @@ h1 { margin-bottom: 25px; font-size: clamp(46px, 5.5vw, 86px); line-height: 1.12
   line-height: 1.14;
 }
 
+.feature-slide .case-copy h2 em {
+  display: block;
+  margin-top: 9px;
+  color: var(--muted);
+  font: 500 14px/1.55 var(--sans);
+  letter-spacing: .02em;
+}
+
 .feature-slide .case-copy > p:not(.eyebrow) {
   max-width: 510px;
   font-size: 13px;
@@ -129,8 +137,8 @@ h1 { margin-bottom: 25px; font-size: clamp(46px, 5.5vw, 86px); line-height: 1.12
 }
 
 .feature-slide .case-media {
-  height: min(68vh, 700px);
-  min-height: 420px;
+  height: min(72vh, 760px);
+  min-height: 440px;
 }
 
 @media (max-width: 1080px) {
